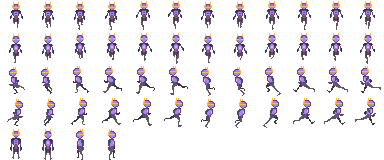
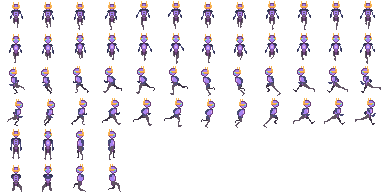
GUN

diff --git a/Test_Loopguy/Player.cs b/Test_Loopguy/Player.cs
@@ -8,6 +8,8 @@ namespace Test_Loopguy
 {
     internal class Player : AnimatedMovingObject
     {
+        AnimSprite gunSprite;
+
         Random random = new Random();
 
         //Wtf
@@ -19,6 +21,7 @@ namespace Test_Loopguy
         const float pi = (float)Math.PI;
 
         int dirint;
+        int gunDirInt;
 
         public string playerInfoString;
 
@@ -26,6 +29,7 @@ namespace Test_Loopguy
             : base(position)
         {
             sprite = new AnimSprite(TexMGR.playerSheet, new Point(32, 32));
+            gunSprite = new AnimSprite(TexMGR.gunSheet, new Point(32, 32));
 
             speed = 100;
         }
@@ -39,6 +43,7 @@ namespace Test_Loopguy
             if (InputReader.Aim())
             {
                 cameraPosition = centerPosition + gunDirection * 50;
+
             }
             else
             {
@@ -52,32 +57,60 @@ namespace Test_Loopguy
             }
 
             sprite.Position = position;
+            gunSprite.Position = position;
             sprite.Update(gameTime);
         }
 
         public override void Draw(SpriteBatch spriteBatch)
         {
+            if (gunDirInt != 3)
+            { //if aiming down, draw player sprite on top
+                sprite.Draw(spriteBatch);
+            }
+
             if (InputReader.Aim())
             {
-                DrawShot(spriteBatch);
+                DrawAim(spriteBatch);
+                DrawGun(spriteBatch);
+
             }
-            sprite.Draw(spriteBatch);
+
+            if (gunDirInt == 3)
+            { //if not aiming down, draw gun sprite on top
+                sprite.Draw(spriteBatch);
+            }
         }
 
-        public void DrawShot(SpriteBatch spriteBatch)
+        public void DrawAim(SpriteBatch spriteBatch)
         {
             if (aimAngle > pi * 1.75f || aimAngle < pi * 0.25f)
-                sprite.Frame(1, 4);
+            {//DOWN
+                sprite.Frame(1, 5);
+                gunSprite.Frame(1, 0);
+                gunDirInt = 1;
+            }
             else if (aimAngle < pi * 0.75f)
-                sprite.Frame(3, 4);
+            {//LEFT
+                sprite.Frame(3, 5);
+                gunSprite.Frame(3, 0);
+                gunDirInt = 2;
+            }
             else if (aimAngle < pi * 1.25f)
-                sprite.Frame(0, 4);
+            {//UP
+                sprite.Frame(0, 5);
+                gunSprite.Frame(0, 0);
+                gunDirInt = 3;
+            }
             else
-                sprite.Frame(2, 4);
+            {//RIGHT
+                sprite.Frame(2, 5);
+                gunSprite.Frame(2, 0);
+                gunDirInt = 4;
+            }
 
             if (!InputReader.MovingLeftStick())
             {
-                aimAngle = (float)Helper.GetAngle(centerPosition, Game1.mousePos);
+                aimAngle = (float)Helper.GetAngle(centerPosition, Game1.mousePos, 0);
             }
             else
             {
@@ -86,11 +119,35 @@ namespace Test_Loopguy
 
             gunDirection = new Vector2((float)Math.Sin(aimAngle), (float)Math.Cos(aimAngle));
 
-            for (int i = 0; i < 560; i++)
+            for (int i = 16; i < 580; i++)
             {
                 Vector2 aimPoint = new Vector2(centerPosition.X + i * gunDirection.X, centerPosition.Y + i * gunDirection.Y);
                 spriteBatch.Draw(TexMGR.pinkPixel, aimPoint, Helper.RandomTransparency(random, 0, 90));
             }
+        }
+
+        public void DrawGun(SpriteBatch spriteBatch)
+        {
+            float gunRotation;
+
+            if (gunDirInt == 1)
+            {//down
+                gunRotation = (float)Helper.GetAngle(centerPosition, Game1.mousePos, 0);
+            }
+            else if (gunDirInt == 2)
+            {//left
+                gunRotation = (float)Helper.GetAngle(centerPosition, Game1.mousePos, pi * -0.5);
+            }
+            else if (gunDirInt == 3)
+            {//up
+                gunRotation = (float)Helper.GetAngle(centerPosition, Game1.mousePos, pi * -1);
+            }
+            else
+            {//right
+                gunRotation = (float)Helper.GetAngle(centerPosition, Game1.mousePos, pi * -1.5);
+            }
+
+            gunSprite.DrawRotation(spriteBatch, gunRotation);
         }
 
         public override void Movement(float deltaTime)

diff --git a/Test_Loopguy/AnimSprite.cs b/Test_Loopguy/AnimSprite.cs
@@ -56,6 +56,10 @@ namespace Test_Loopguy
                 }
             }
         }
+        public void PlayOnce(int row, int stopX, int frameRate)
+        {
+
+        }
         public void Frame(int X, int Y)
         {
             currentFrame.X = X;
@@ -69,6 +73,15 @@ namespace Test_Loopguy
             position.X = (int)Math.Round(Position.X);
             position.Y = (int)Math.Round(Position.Y);
             spriteBatch.Draw(sheet, position, frame, Color.White);
+        }
+        public void DrawRotation(SpriteBatch spriteBatch, float angle)
+        {
+            frame = new Rectangle(currentFrame.X * size.X, currentFrame.Y * size.Y, size.X, size.Y);
+            Vector2 origin = new Vector2(size.X / 2, size.Y / 2);
+
+            position.X = (int)Math.Round(Position.X + size.X / 2);
+            position.Y = (int)Math.Round(Position.Y + size.Y / 2);
+            spriteBatch.Draw(sheet, position, frame, Color.White, -angle, origin, 1, SpriteEffects.None, 0);
         }
     }
 }

diff --git a/Test_Loopguy/Game1.cs b/Test_Loopguy/Game1.cs
@@ -89,8 +89,8 @@ namespace Test_Loopguy
             mousePos = new Vector2(cameraTopLeft.X + windowMousePos.X, cameraTopLeft.Y + windowMousePos.Y);
 
             //Get angles between player and stuff
-            double mouseAngle = Helper.GetAngle(player.centerPosition, mousePos);
-            double targetAngle = Helper.GetAngle(player.centerPosition, Vector2.Zero); //change zero vector to target
+            double mouseAngle = Helper.GetAngle(player.centerPosition, mousePos, 0);
+            double targetAngle = Helper.GetAngle(player.centerPosition, Vector2.Zero , 0); //change zero vector to target
 
             //Converts angles from radians double to more readable stuff
             double piRadM = mouseAngle / Math.PI;

diff --git a/Test_Loopguy/TexMGR.cs b/Test_Loopguy/TexMGR.cs
@@ -5,12 +5,13 @@ namespace Test_Loopguy
 {
     static class TexMGR
     {
-        public static Texture2D notex, playerSheet, target, blueArc, redPixel, cyanPixel, pinkPixel, checkers;
+        public static Texture2D notex, playerSheet, gunSheet, target, blueArc, redPixel, cyanPixel, pinkPixel, checkers;
 
         public static void LoadTextures(ContentManager c)
         {
             notex = c.Load<Texture2D>("notex");
             playerSheet = c.Load<Texture2D>("Loopy3");
+            gunSheet = c.Load<Texture2D>("guns");
             target = c.Load<Texture2D>("target");
             blueArc = c.Load<Texture2D>("blueArc");
             redPixel = c.Load<Texture2D>("redPixel");

diff --git a/Test_Loopguy/Helper.cs b/Test_Loopguy/Helper.cs
@@ -10,12 +10,12 @@ namespace Test_Loopguy
     static class Helper
     {
 
-        public static double GetAngle(Vector2 source, Vector2 target)
+        public static double GetAngle(Vector2 source, Vector2 target, double offset)
         {
             double v = Math.Atan2(target.X - source.X, target.Y - source.Y);
 
             //No adjustment measures the angle from below the source (if that makes any sense at all) otherwise adjust below
-            //v -= Math.PI / 2;
+            v += offset;
 
             if (v < 0.0)
                 v += Math.PI * 2;
